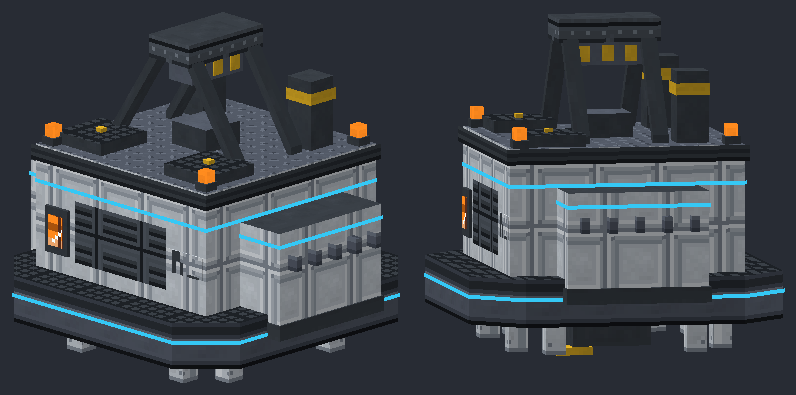
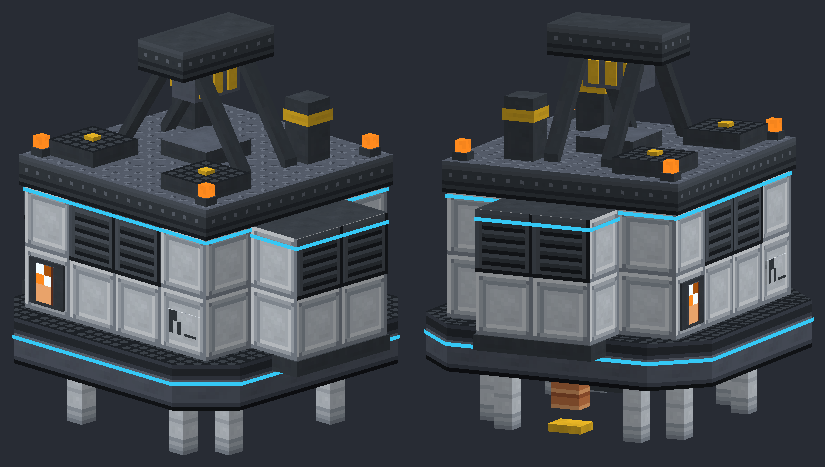
Mega drill even texture pass on the top: whole panels cut from each box's own corner, vents, stencil and hatch on their panels, bands at their height, posts even down their height

diff --git a/art/tools/mega_drill_concept.py b/art/tools/mega_drill_concept.py
@@ -50,6 +50,56 @@ def outline(x1, y1, z1, x2, y2, z2, mat, t=0.3):
     d.box(mat, x1 - t, y1, z1 - t, x2 + t, y2, z2 + t, skip=('up', 'down'))
 
 
+def ebox(mat, x1, y1, z1, x2, y2, z2, top=None, bottom=None, skip=(), v0=None, sides=None):
+    """An even box: each face cut into 16-pixel panels from its own corner (not the world's grid),
+    so a box sized in whole panels shows every plate whole. A face shorter than a block shows the
+    texture's foot (rows 16 - h to 16), or from row v0, so a band drawn at its height fits it.
+    `sides` maps a face to its own texture."""
+    sides = sides or {}
+    w, h, dz = x2 - x1, y2 - y1, z2 - z1
+    faces = {
+        'north': ((x2, z1), (x1, z1), w, (0, 0, -1)),
+        'south': ((x1, z2), (x2, z2), w, (0, 0, 1)),
+        'west': ((x1, z1), (x1, z2), dz, (-1, 0, 0)),
+        'east': ((x2, z2), (x2, z1), dz, (1, 0, 0)),
+    }
+    for face, (a, b, length, out) in faces.items():
+        if face in skip:
+            continue
+        tex = sides.get(face, mat)
+        ys = [y2 - 16 * k for k in range(int((h - 0.01) // 16) + 1)] + [y1]
+        for yt, yb in zip(ys, ys[1:]):
+            hh = yt - yb
+            va = (16 - hh) if v0 is None else v0
+            us = [16 * k for k in range(int((length - 0.01) // 16) + 1)] + [length]
+            for ua, ub in zip(us, us[1:]):
+                pa = (a[0] + (b[0] - a[0]) * ua / length, a[1] + (b[1] - a[1]) * ua / length)
+                pb = (a[0] + (b[0] - a[0]) * ub / length, a[1] + (b[1] - a[1]) * ub / length)
+                d.quad(tex, [(pa[0], yt, pa[1]), (pb[0], yt, pb[1]), (pb[0], yb, pb[1]), (pa[0], yb, pa[1])],
+                       [(0, va), (ub - ua, va), (ub - ua, va + hh), (0, va + hh)], out)
+    for cap, y, up in ((top if top is not None else (None if 'up' in skip else mat), y2, 1),
+                       (bottom if bottom is not None else (None if 'down' in skip else mat), y1, -1)):
+        if cap is None:
+            continue
+        xs = [x1 + 16 * k for k in range(int((w - 0.01) // 16) + 1)] + [x2]
+        zs = [z1 + 16 * k for k in range(int((dz - 0.01) // 16) + 1)] + [z2]
+        for xa, xb in zip(xs, xs[1:]):
+            for za, zb in zip(zs, zs[1:]):
+                d.quad(cap, [(xa, y, za), (xb, y, za), (xb, y, zb), (xa, y, zb)],
+                       [(0, 0), (xb - xa, 0), (xb - xa, zb - za), (0, zb - za)], (0, up, 0))
+
+
+def plate(mat, face, x1, y1, z1, x2, y2, z2, decal=None):
+    """A thin plate standing proud of a face (a vent, a hatch): its texture whole on that face,
+    a decal drawn once at its exact size if given."""
+    w = (x2 - x1) if face in ('north', 'south') else (z2 - z1)
+    h = y2 - y1
+    if decal:
+        d.box(mat, x1, y1, z1, x2, y2, z2, decals={face: decal}, skip=('up', 'down'))
+    else:
+        ebox(mat, x1, y1, z1, x2, y2, z2, skip=('up', 'down'), v0=0 if h >= 16 else None)
+
+
 def corners(w, c):
     """A square of half width w with its corners cut by c, as 8 points round the centre."""
     return [(C + w, C - w + c), (C + w, C + w - c), (C + w - c, C + w), (C - w + c, C + w),
@@ -213,7 +263,7 @@ for k in range(3):
 # ---------------------------------------------------------------- the column
 COL = (RY, RY + 6 * B)
 for x, z in corners(CW, CC):
-    d.box('drill_post', x - 2.5, COL[0], z - 2.5, x + 2.5, COL[1], z + 2.5, skip=('down', 'up'))
+    ebox('drill_post', x - 2.5, COL[0], z - 2.5, x + 2.5, COL[1], z + 2.5, skip=('down', 'up'), v0=0)
 for face, (ax, az, bx, bz) in (('north', (C - CW + CC, C - CW, C + CW - CC, C - CW)), ('south', (C - CW + CC, C + CW, C + CW - CC, C + CW)),
                                ('west', (C - CW, C - CW + CC, C - CW, C + CW - CC)), ('east', (C + CW, C - CW + CC, C + CW, C + CW - CC))):
     normal = {'north': (0, 0, -1), 'south': (0, 0, 1), 'west': (-1, 0, 0), 'east': (1, 0, 0)}[face]
@@ -231,60 +281,64 @@ for y in range(int(COL[0]) + 10, int(COL[1]), 18):
 # ---------------------------------------------------------------- the collar and the drive housing
 # Not a lantern: a heavy drive housing with louvred vents, generator pods bolted to its flanks, and
 # on its roof the crown frame, cooling fans, exhaust stacks and warning lamps, as a rig's top.
+# Even textures: every box here is sized in whole 16-pixel panels and cut from its own corner,
+# bands are drawn at their height, and the decals once at their size.
 COLLAR = (COL[1], COL[1] + 12)
 prism('drill_ring', COLLAR[0], COLLAR[1], 40, 12, top='breeder_grate', bottom='breeder_graphite', v0=4)
 prism('glow', COLLAR[0] + 6.5, COLLAR[0] + 7.5, 40.3, 12)
-HW = 30                 # the housing's half width: a box on the collar, not a round head
+HW = 2 * B              # the housing: 4 x 4 panels across, 2 high
 HOUSE = (COLLAR[1], COLLAR[1] + 2 * B)
-d.box('drill_panel', C - HW, HOUSE[0], C - HW, C + HW, HOUSE[1], C + HW, top='breeder_plinth', skip=('down',))
-d.box('drill_band8', C - HW - 1, HOUSE[1] - 8, C - HW - 1, C + HW + 1, HOUSE[1], C + HW + 1, skip=('down', 'up'))
-outline(C - HW, HOUSE[1] - 10, C - HW, C + HW, HOUSE[1] - 9, C + HW, 'glow')
-# A louvred vent two blocks wide in the front and back faces.
-for face, z, push in (('north', C - HW, -0.3), ('south', C + HW, 0.3)):
+ebox('drill_panel', C - HW, HOUSE[0], C - HW, C + HW, HOUSE[1], C + HW, skip=('up', 'down'))
+# Its cap band, 8 high and a pixel proud, with the light line under it; the roof in tread plate.
+ROOF = HOUSE[1] + 8
+ebox('drill_band8', C - HW - 1, HOUSE[1], C - HW - 1, C + HW + 1, ROOF, C + HW + 1, top='breeder_plinth', skip=('down',), v0=8)
+outline(C - HW, HOUSE[1] - 1.5, C - HW, C + HW, HOUSE[1] - 0.5, C + HW, 'glow')
+# The front: louvred vents over the middle two panels of the upper row, the stencil centred on the
+# lower left panel, an inspection hatch over the lower right with its window onto the generator.
+# The back carries vents too.
+for z, face, push in ((C - HW, 'north', -0.3), (C + HW, 'south', 0.3)):
     a1, a2 = sorted((z, z + push))
-    d.box('drill_vent', C - B, HOUSE[0] + 4, a1, C, HOUSE[0] + 20, a2, skip=face_only(face))
-    d.box('drill_vent', C, HOUSE[0] + 4, a1, C + B, HOUSE[0] + 20, a2, skip=face_only(face))
-# The drill's number stencilled on the front, left of the vents.
-d.box('drill_panel', C - 29, HOUSE[0] + 9, C - HW - 0.3, C - 17, HOUSE[0] + 15, C - HW, decals={'north': 'drill_stencil'}, skip=('south',))
-# An inspection hatch on the front, a small window onto the generator glowing inside.
-d.box('breeder_graphite', C + 18, HOUSE[0] + 5, C - HW - 1, C + 26, HOUSE[0] + 17, C - HW, skip=('south',))
-d.box('drill_window', C + 19.5, HOUSE[0] + 7, C - HW - 1.3, C + 24.5, HOUSE[0] + 15, C - HW - 1, skip=('south',))
-# Generator pods on the flanks: boxes with cooling fins, a graphite base and a cyan line.
+    plate('drill_vent', face, C - B, HOUSE[0] + B, a1, C + B, HOUSE[1], a2)
+z1, z2 = C - HW - 0.3, C - HW
+d.box('drill_panel', C - HW + 2, HOUSE[0] + 5, z1, C - HW + 14, HOUSE[0] + 11, z2, decals={'north': 'drill_stencil'}, skip=('south',))
+d.box('breeder_graphite', C + B + 2, HOUSE[0] + 2, z1 - 0.4, C + 2 * B - 2, HOUSE[0] + 14, z2, skip=('south',))
+d.box('breeder_fitting', C + B + 5, HOUSE[0] + 3, z1 - 0.7, C + 2 * B - 5, HOUSE[0] + 13, z1 - 0.4, decals={'north': 'drill_window'}, skip=('south',))
+# Generator pods on the flanks: a block deep, two long, two high, on a graphite bracket, vents over
+# their upper row, the light line under their caps.
 for sx in (-1, 1):
-    x1, x2 = sorted((C + sx * HW, C + sx * (HW + 14)))
-    d.box('drill_panel', x1, HOUSE[0] - 4, C - 18, x2, HOUSE[0] + 22, C + 18, top='breeder_graphite')
-    d.box('breeder_graphite', min(x1, x2) - 0.5, HOUSE[0] - 6, C - 18.5, max(x1, x2) + 0.5, HOUSE[0] - 2, C + 18.5)
-    outline(x1, HOUSE[0] + 18, C - 18, x2, HOUSE[0] + 19, C + 18, 'glow')
-    fx = C + sx * (HW + 14)
-    for k in range(5):
-        z = C - 14 + k * 7
-        a1, a2 = sorted((fx, fx + sx * 3))
-        d.box('drill_frame', a1, HOUSE[0], z - 1, a2, HOUSE[0] + 16, z + 1)
-# The crown frame on the roof: an A-frame of girders over the middle carrying the sheave block,
-# as a drilling rig's crown, with the drill string's head under it.
-ROOF = HOUSE[1]
+    x1, x2 = sorted((C + sx * HW, C + sx * (HW + B)))
+    ebox('drill_panel', x1, HOUSE[0], C - B, x2, HOUSE[1], C + B, top='breeder_graphite', skip=('down',))
+    ebox('breeder_graphite', x1 - 0.5, HOUSE[0] - 4, C - B - 0.5, x2 + 0.5, HOUSE[0], C + B + 0.5)
+    outline(x1, HOUSE[1] - 3, C - B, x2, HOUSE[1] - 2, C + B, 'glow')
+    fx = x2 if sx > 0 else x1
+    a1, a2 = sorted((fx, fx + sx * 0.3))
+    face = 'east' if sx > 0 else 'west'
+    for za in (C - B, C):
+        plate('drill_vent', face, a1, HOUSE[0] + B, za, a2, HOUSE[1], za + B)
+# The crown frame on the roof: an A-frame of graphite legs carrying a beam (a band, 8 high, two
+# panels long) with the sheave block hung under it, as a drilling rig's crown.
 for sx in (-1, 1):
     for sz in (-1, 1):
-        d.sweep('breeder_graphite', [(C + sx * 22, ROOF, C + sz * 10), (C + sx * 5, ROOF + 26, C + sz * 10)], 2, 2,
+        d.sweep('breeder_graphite', [(C + sx * 22, ROOF, C + sz * 8), (C + sx * 6, ROOF + 24, C + sz * 8)], 2, 2,
                 lambda i: (0, 1, 0), closed=False, caps=True)
-d.box('breeder_girder', C - 7, ROOF + 24, C - 13, C + 7, ROOF + 30, C + 13, top='breeder_graphite')
-d.box('breeder_fitting', C - 4, ROOF + 18, C - 9, C + 4, ROOF + 24, C + 9)
-for z in (C - 6, C, C + 6):
-    d.box('breeder_rail', C - 4.4, ROOF + 19, z - 1.5, C + 4.4, ROOF + 23, z + 1.5)
-d.box('breeder_graphite', C - 6, ROOF, C - 6, C + 6, ROOF + 6, C + 6, top='breeder_fitting')
-# Two square cooling fans on the roof's front corners, and two short stacks at the back.
+ebox('drill_band8', C - 8, ROOF + 24, C - B, C + 8, ROOF + 32, C + B, top='breeder_graphite', v0=8)
+ebox('breeder_fitting', C - 4, ROOF + 16, C - 8, C + 4, ROOF + 24, C + 8)
+for z in (C - 5, C, C + 5):
+    ebox('breeder_rail', C - 4.5, ROOF + 17, z - 1.5, C + 4.5, ROOF + 23, z + 1.5)
+ebox('breeder_graphite', C - 8, ROOF, C - 8, C + 8, ROOF + 4, C + 8, top='breeder_fitting', skip=('down',))
+# Two cooling fans on the roof's front corners (a block each, a grille on top), two stacks at the back.
 for sx in (-1, 1):
-    fx = C + sx * 19
-    d.box('breeder_graphite', fx - 8, ROOF, C - 26, fx + 8, ROOF + 3, C - 10, top='breeder_grate')
-    d.box('breeder_rail', fx - 1, ROOF + 3, C - 19, fx + 1, ROOF + 4, C - 17, skip=('down',))
-    d.box('breeder_graphite', fx - 4, ROOF, C + 14, fx + 4, ROOF + 18, C + 22)
-    d.box('breeder_rail', fx - 4.4, ROOF + 12, C + 13.6, fx + 4.4, ROOF + 15, C + 22.4, skip=('up', 'down'))
-# Warning lamps on the housing's roof corners, instead of one beacon on top.
+    fx = C + sx * 20
+    ebox('breeder_graphite', fx - 8, ROOF, C - 28, fx + 8, ROOF + 4, C - 12, top='breeder_grate', skip=('down',))
+    ebox('breeder_rail', fx - 1.5, ROOF + 4, C - 21.5, fx + 1.5, ROOF + 5, C - 18.5, skip=('down',))
+    ebox('breeder_graphite', fx - 4, ROOF, C + 12, fx + 4, ROOF + 16, C + 20, skip=('down',))
+    ebox('breeder_rail', fx - 4.4, ROOF + 10, C + 11.6, fx + 4.4, ROOF + 13, C + 20.4, skip=('up', 'down'))
+# Warning lamps on the roof's corners.
 for sx in (-1, 1):
     for sz in (-1, 1):
         lx, lz = C + sx * (HW - 3), C + sz * (HW - 3)
-        d.box('breeder_graphite', lx - 2, ROOF, lz - 2, lx + 2, ROOF + 2, lz + 2, skip=('down',))
-        d.box('breeder_amber', lx - 1.5, ROOF + 2, lz - 1.5, lx + 1.5, ROOF + 5, lz + 1.5, skip=('down',))
+        ebox('breeder_graphite', lx - 2, ROOF, lz - 2, lx + 2, ROOF + 2, lz + 2, skip=('down',))
+        ebox('breeder_amber', lx - 1.5, ROOF + 2, lz - 1.5, lx + 1.5, ROOF + 5, lz + 1.5, skip=('down',))
 
 
 def main():

diff --git a/art/tools/drill_textures.py b/art/tools/drill_textures.py
@@ -15,12 +15,12 @@ textures drawn at their height, round parts change only down their height.
   a bolt line, a groove and a shadowed foot.
 - leg: the mega drill's buttress legs, drawn for swept bars (u runs along the leg, v across it):
   light plating with a lit edge, a recessed groove down the middle and bolts every 8 pixels.
-- window (lit): a head window onto the beam generator: its coils glowing orange behind the glass,
+- window (lit decal, 6 x 10): the hatch's window onto the beam generator: its coils glowing orange behind the glass,
   dark bars between them, a pale glint across the top corner.
 - panel: the mega drill's housing and pods, a designed plate a block each: an inset, a lit bevel,
   a shadowed foot and a screw in each corner.
-- post: the column's posts, a block each: lit on the left, shadowed on the right, a joint with two
-  bolts at each block.
+- post: the column's posts, changing only down their height so a narrow post shows it whole: lit
+  at the top of each block, a joint at its foot.
 - brace: the lattice's X braces, drawn for swept bars (v across): graphite, lit along one edge,
   shadowed along the other, a bolt hole every 8 pixels down the middle.
 - emitter: the beam emitter's pyramid faces (the tip at the bottom middle): graphite, heat-tinted
@@ -120,13 +120,14 @@ def leg():
 
 
 def window():
-    t = Tex()
-    for y in range(16):
-        t.rect(0, y, 15, y, ('Z', 'X', 'X', 'e', 'e', 'X', 'X', 'Z')[y % 8])
-    for x in (3, 8, 13):
-        t.rect(x, 0, x, 15, 'o')
-    for k in range(4):
-        t.set(1 + k, 3 - k, 'W')
+    """A decal, 6 x 10: the hatch's window onto the generator, its coils glowing orange behind the
+    glass, a dark bar between them, a pale glint in the top corner."""
+    t = Tex(6, 10)
+    for y in range(10):
+        t.rect(0, y, 5, y, ('Z', 'X', 'e', 'e', 'X', 'X', 'e', 'e', 'X', 'Z')[y])
+    t.rect(2, 0, 2, 9, 'o')
+    t.set(0, 0, 'W')
+    t.set(1, 1, 'W')
     return t
 
 
@@ -148,15 +149,11 @@ def panel():
 
 
 def post():
+    """Changes only down its height, so a post of any width shows it whole: lit at the top, a
+    plated face, a joint at the foot of each block with a bolt line above it."""
     t = Tex()
-    t.rect(0, 0, 15, 15, 'E')
-    t.rect(0, 0, 1, 15, 'A')
-    t.rect(14, 0, 15, 15, 'I')
-    t.rect(0, 15, 15, 15, 'J')
-    t.rect(0, 0, 15, 0, 'A')
-    for x in (4, 11):
-        t.set(x, 2, 'J')
-        t.set(x, 13, 'J')
+    for y, c in enumerate(['A', 'A', 'E', 'E', 'E', 'E', 'E', 'F', 'E', 'E', 'E', 'E', 'I', 'F', 'I', 'J']):
+        t.rect(0, y, 15, y, c)
     return t
 
 

diff --git a/docs/DESIGN.md b/docs/DESIGN.md
@@ -597,6 +597,7 @@ The mod's own miner: not a box quarry but a drill that melts its way straight do
   - **Coolant:** it drinks water to cool the bore, venting steam from its stacks (rule 12), so it needs intake pumps beside it.
   - **Built** like the station: place the controller, feed it the parts, and it builds itself round the pit.
   - **Detail (4 Oct 2026, the station's treatment, no change to its shape or use):** its own textures (`art/tools/drill_textures.py`): designed panels on the housing and pods (an inset, a lit bevel, corner screws), plated column posts with a joint and bolts each block, graphite X braces with bolt holes, plated legs, the emitter heat-tinted from graphite to bronze to a glowing orange tip, steel tread plate on the deck and the housing's roof (cut to the block grid even round the cut corners), a hazard border round the pit, heat warning signs on the base's front, and the drill's number stencilled on the housing (D-1, as the station's RG-1).
+  - **Even textures (4 Oct 2026):** every box on the top is sized in whole 16-pixel panels and cut from its own corner, not the world's grid (`ebox` in the concept): the housing four panels across and two high, the pods two by two, vents set exactly over panels, the stencil and the hatch each on a panel, bands drawn at their height, the window and stencil as decals at their size; the column's posts use a texture that changes only down their height, so a narrow post shows it whole.
   - **Effects (first plan, 4 Oct 2026):** running, the pit is molten (an animated texture, dark crust drifting over glowing melt, `drill/melt`) and the beam a flickering white-hot core between cyan edges (`drill/beam`), both lit; embers and sparks jump from the pit and smoke and steam rise through the open base (lava, campfire smoke and cloud particles, a few a second, so it stays cheap); the emitter's tip pulses as it fires; the head's windows glow amber onto the generator; the light lines are lit; and the pit's blocks give off light, so the base glows at night. Idle, the pit crusts over to dark glassy rock with red cracks still glowing (`drill/crust`), the beam goes out, and the windows and lines go dim. Steam puffs from the coolant duct's vent when the bore takes water. Sound: a deep drone looped on the client and pitched by speed, with a crackle as each layer gives way (the user sources recordings). Renders: `art/concepts/mega_drill.png` (running) and `mega_drill_idle.png`.
   - **The deep bore (the user's idea, 4 Oct 2026; balance to settle):** once the chunk is mined to bedrock the drill does not stop: its beam bores on through bedrock into the deep crust below the world, where it breaks no more blocks and brings up ore at better rates than the chunk gave. It is the drill's endgame, so a finished drill is never junk (rule 4). Real basis, honestly fudged: the deep crust is denser and richer in heavy metals than the surface, and real superdeep boreholes (the deepest reach about 12 km) found hot, mineral-rich brines; the fudge is reaching it, and what it yields. Balancing ideas, to choose from in play:
     - **The drill head sets what it reaches:** a Mk I head brings up only the common ores, a Mk II adds uranium, lead, silver and the gems, a Mk III the rare ones (tungsten, monazite). So deep boring is a reason to keep upgrading.
